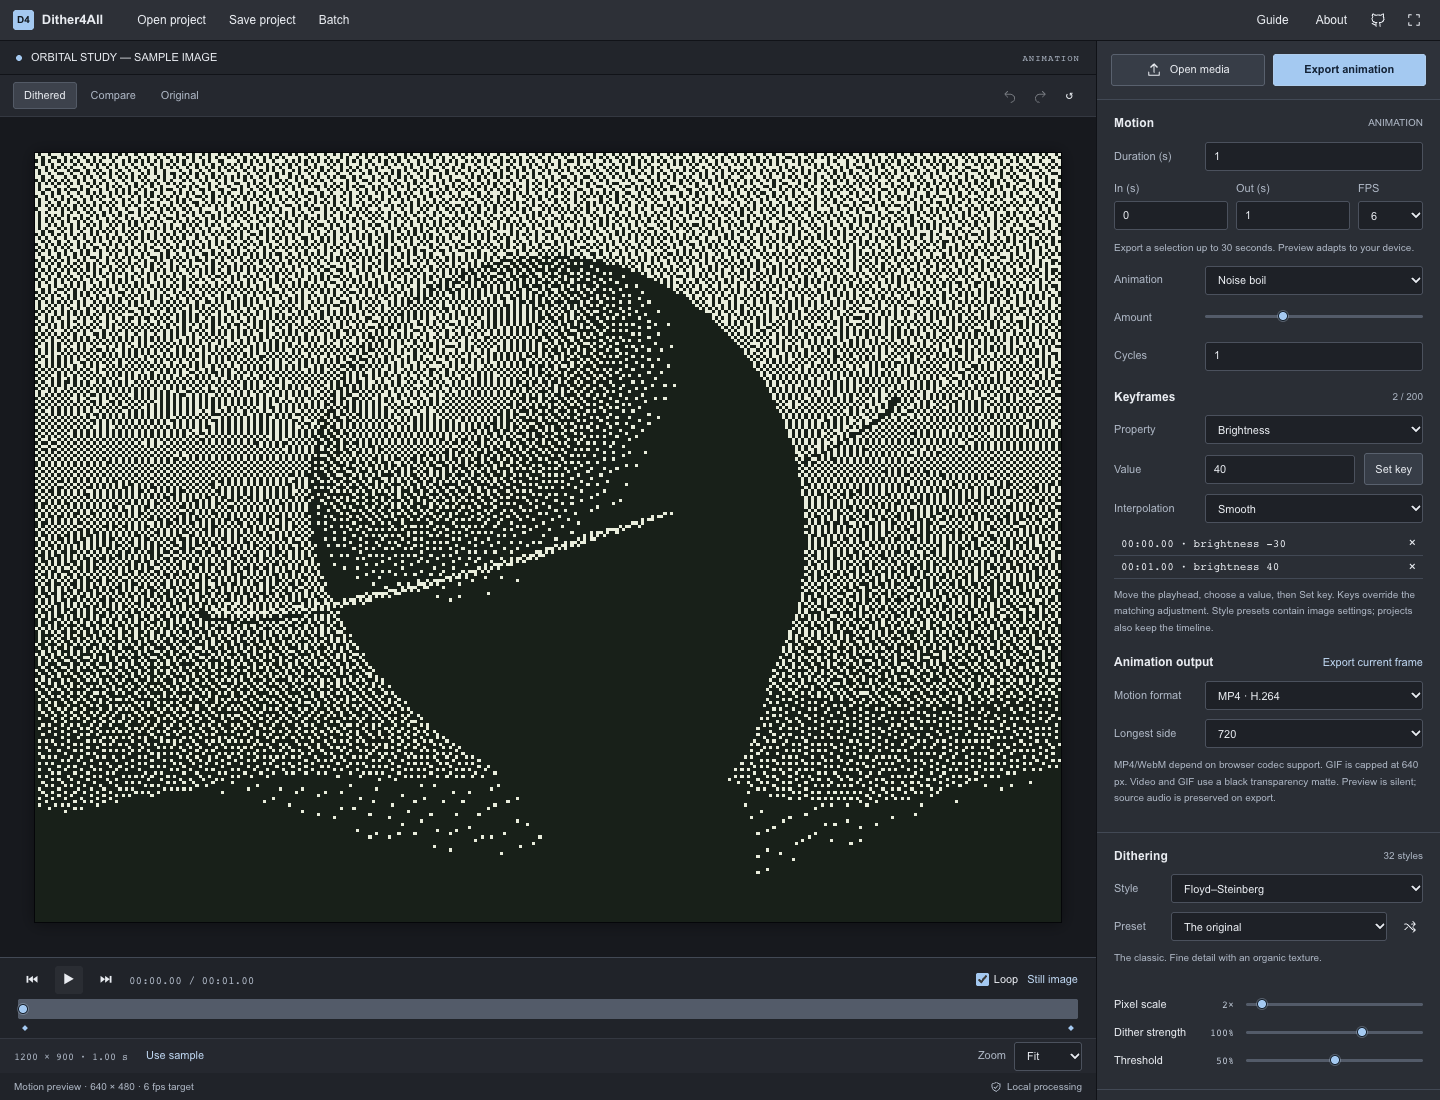
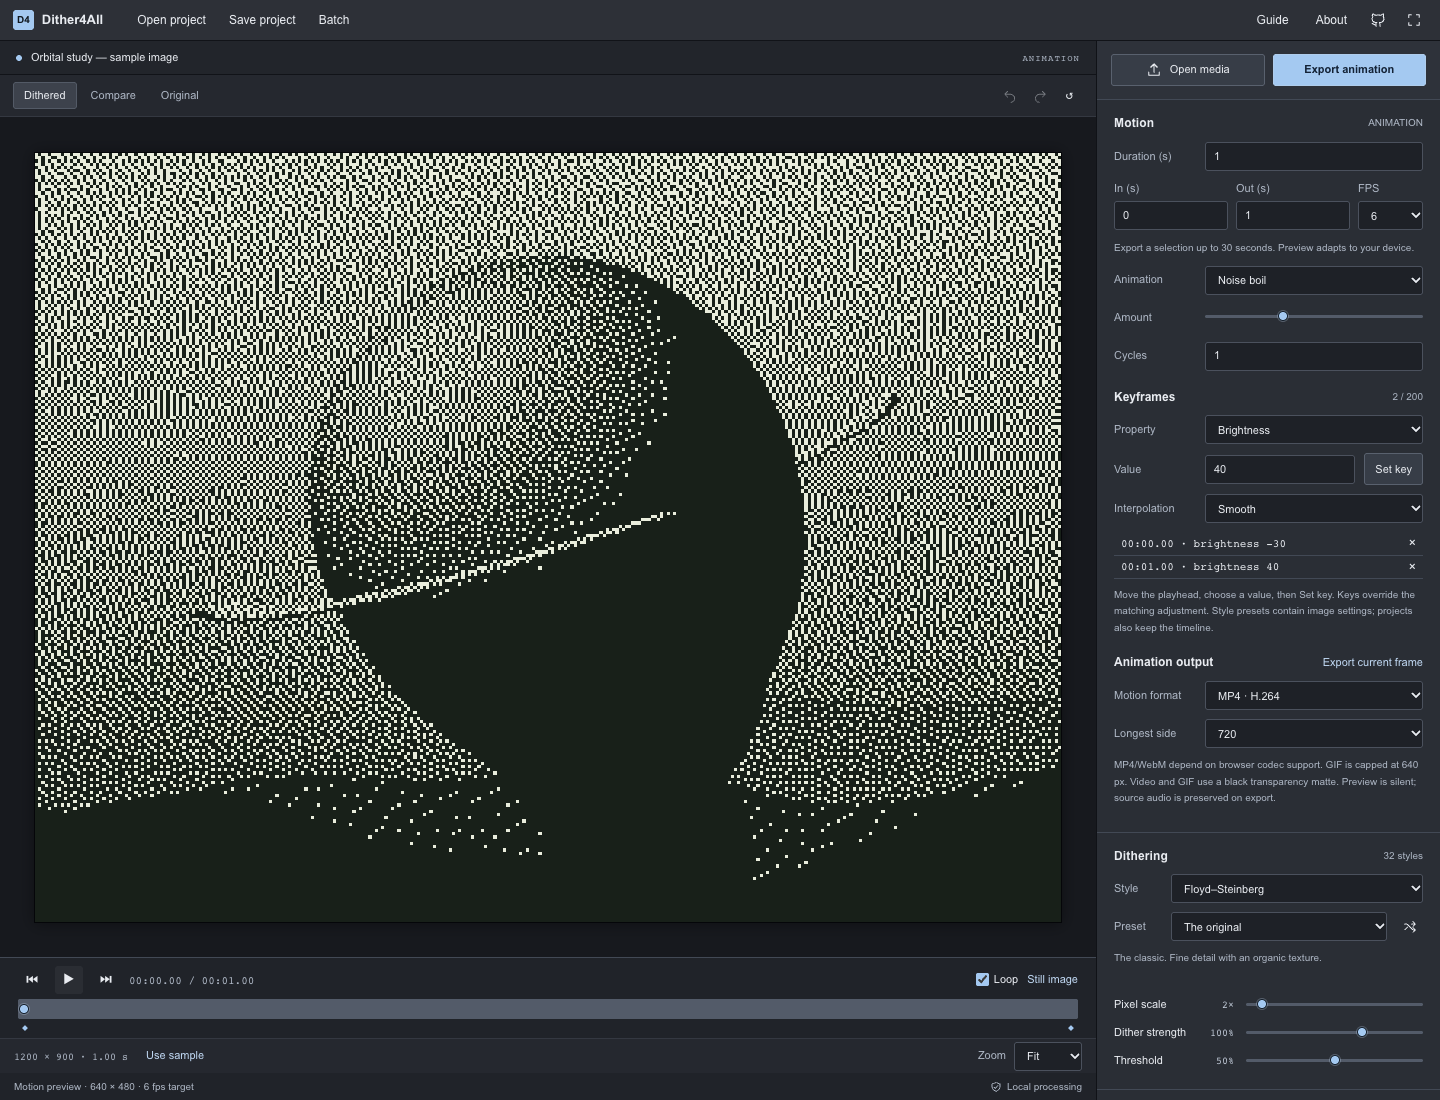
fix: cancel stale previews when entering motion mode

Changed region(s): [[0.0312, 0.2164, 0.4688, 0.7418], [0.5, 0.2473, 0.75, 0.7418], [0.0312, 0.0309, 0.1562, 0.0618]]

diff --git a/tests/browser/motion.spec.ts b/tests/browser/motion.spec.ts
@@ -27,9 +27,9 @@ test('still animation scrubs, keyframes, plays, cancels and exports GIF/PNG sequ
   const errors: string[] = [];
   page.on('pageerror', (e) => errors.push(e.message));
   await page.goto('/');
-  await expect(page.locator('#render-status')).toContainText('ms');
   await page.getByRole('button', { name: 'Animate image', exact: true }).click();
   await expect(page.locator('#timeline')).toBeVisible();
+  await expect(page.locator('#render-status')).toContainText('Motion preview');
   await page.getByLabel('Duration (s)', { exact: true }).fill('1');
   await page.getByLabel('Duration (s)', { exact: true }).press('Tab');
   await page.getByLabel('FPS', { exact: true }).selectOption('6');
@@ -103,6 +103,16 @@ test('video import, trim, keyframe project relink, and audio-preserving MP4/WebM
   await expect(page.locator('#motion-time')).toContainText('00:01.00');
   for (const format of ['mp4', 'webm']) {
     await page.getByLabel('Motion format', { exact: true }).selectOption(format);
+    const supported = await page.evaluate(async (format) => {
+      const path = '/tests/fixtures/media.ts';
+      return (await import(/* @vite-ignore */ path)).supportsFormat(format);
+    }, format);
+    if (!supported) {
+      await page.getByRole('button', { name: 'Export animation', exact: true }).click();
+      await expect(page.locator('#motion-export-status')).toHaveText('Export failed.');
+      await expect(page.locator('#toast')).toContainText('unavailable');
+      continue;
+    }
     const dl = page.waitForEvent('download');
     await page.getByRole('button', { name: 'Export animation', exact: true }).click();
     const blob = await readFile((await (await dl).path())!);

diff --git a/src/motion/editor.ts b/src/motion/editor.ts
@@ -30,6 +30,7 @@ interface Host {
   source: () => HTMLCanvasElement;
   setSource: (canvas: HTMLCanvasElement, name: string) => void;
   renderStill: () => void;
+  cancelStill: () => void;
   zoom: () => void;
   toast: (message: string) => void;
   error: (error: unknown) => void;
@@ -186,6 +187,7 @@ export class MotionEditor {
     this.visible();
   }
   private visible() {
+    if (this.active) this.host.cancelStill();
     el('timeline').hidden = !this.active;
     el('motion-section').hidden = !this.active;
     el('animate-image').hidden = this.active;

diff --git a/tests/fixtures/media.ts b/tests/fixtures/media.ts
@@ -54,3 +54,17 @@ export async function inspectVideo(bytes: number[]) {
     input.dispose();
   }
 }
+
+export async function supportsFormat(format: 'mp4' | 'webm') {
+  return (
+    (await m.canEncodeVideo(format === 'mp4' ? 'avc' : 'vp8', {
+      width: 160,
+      height: 120,
+      frameRate: 12,
+    })) &&
+    (await m.canEncodeAudio(format === 'mp4' ? 'aac' : 'opus', {
+      numberOfChannels: 1,
+      sampleRate: 48000,
+    }))
+  );
+}

diff --git a/src/main.ts b/src/main.ts
@@ -658,6 +658,12 @@ const motion = new MotionEditor({
     $('image-name').textContent = name;
   },
   renderStill: scheduleRender,
+  cancelStill: () => {
+    clearTimeout(renderTimer);
+    ++renderVersion;
+    previewAbort?.abort();
+    previewAbort = null;
+  },
   zoom: updateZoom,
   toast,
   error: fail,
